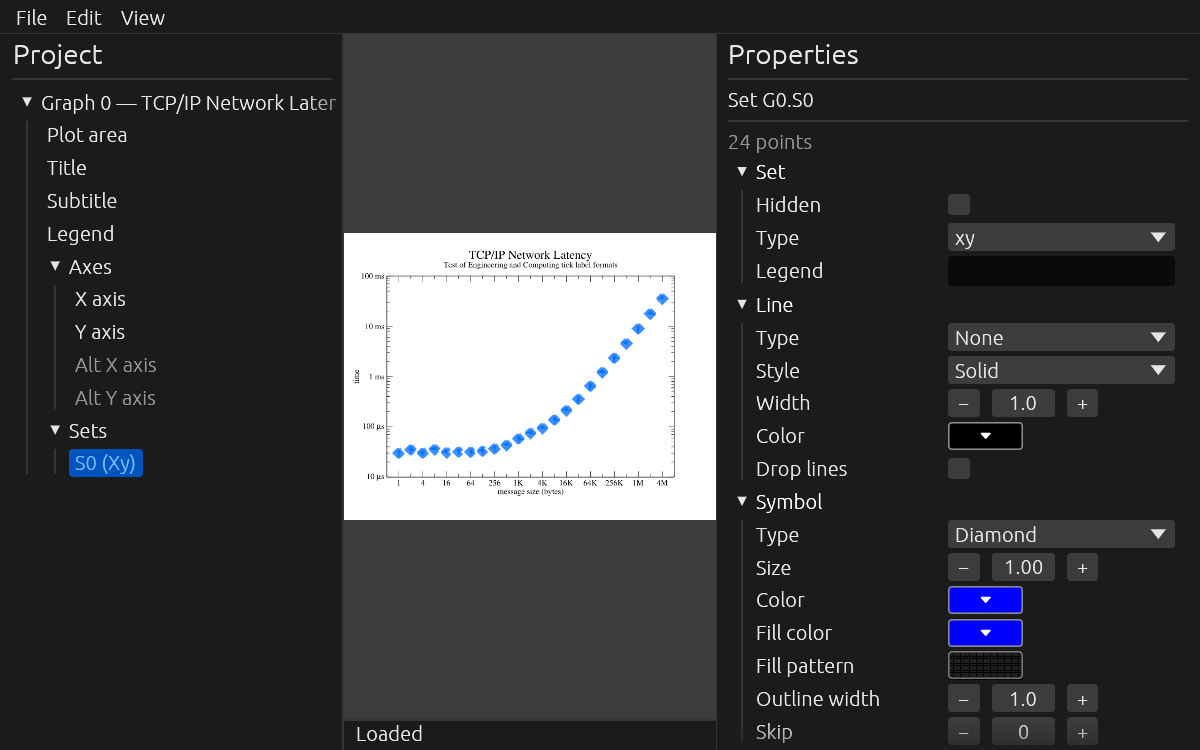
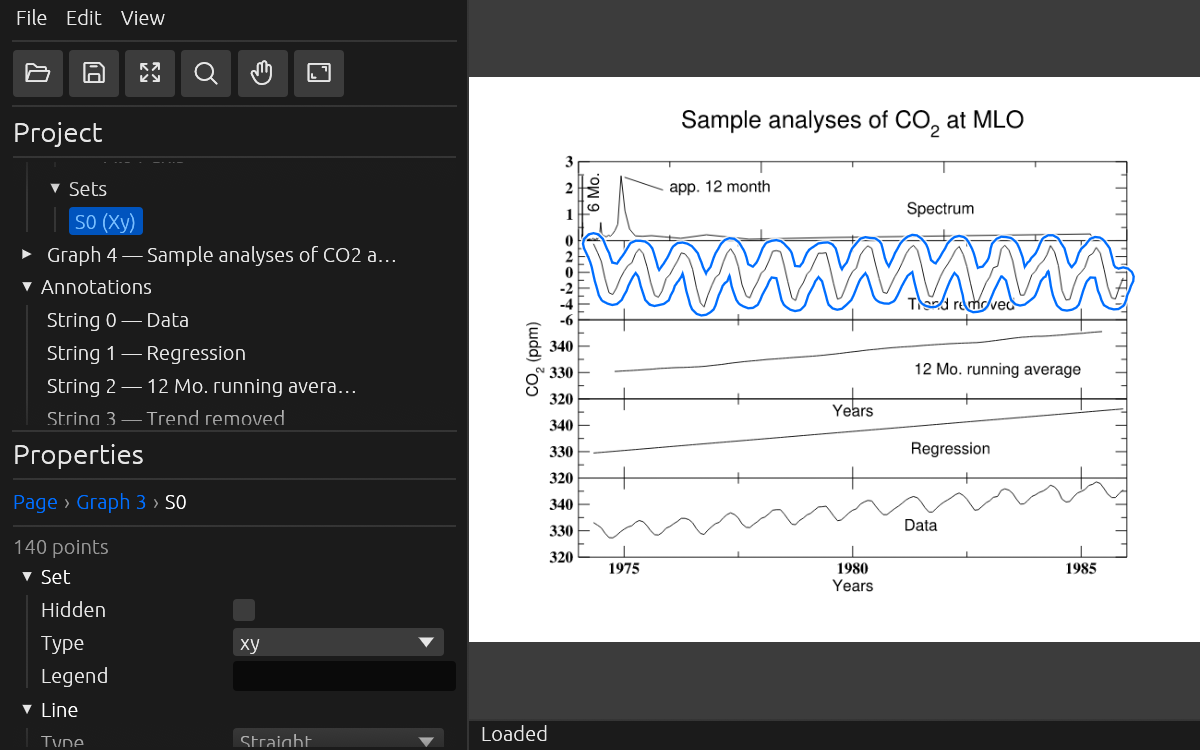
docs: rewrite README — lead with use cases, quick start, LaTeX + .oxgr + current GUI
Opens with who the project is for (headless rendering of .agr/.xvg
anywhere, a modern Grace-compatible editor incl. the browser, LaTeX
labels) and a quick start. Features gain the LaTeX math extension, the
native .oxgr format and per-set opacity; the GUI section describes the
current editor (breadcrumb inspector with element-exact pages,
tree/canvas selection sync, non-masking selection outlines, toolbar
tools, layout toggle with persisted settings). New gallery tile
docs/gallery/latex.png (a fit plot labeled entirely in $...$ math) and a
regenerated gui.png showing the redesigned UI.

diff --git a/README.md b/README.md
@@ -2,27 +2,51 @@
 
 A pure-Rust toolkit for [Grace](https://plasma-gate.weizmann.ac.il/Grace/)
 (xmgrace) plot files: a rendering library, a headless command-line renderer
-and an interactive GUI editor. It reads `.agr` / `.xvg` files and renders
-them to antialiased PNG images or clean vector SVG — no X11, no external C
-libraries.
+and an interactive GUI editor that also runs in the browser. It reads
+`.agr` / `.xvg` files and turns them into antialiased PNG or clean vector
+SVG — no X11, no external C libraries, no Grace installation.
 
-Grace is a venerable 2D plotting tool whose file formats are still produced
-by a lot of scientific software (GROMACS and friends emit `.xvg`). oxygrace
-turns those files into images anywhere — servers, CI pipelines, containers —
-and lets you edit them in a modern GUI, without installing Grace itself.
+Decades of scientific software speak Grace's formats — GROMACS and friends
+still emit `.xvg` today, and countless published figures live in `.agr`
+projects. oxygrace is for three situations:
+
+- **Rendering those files anywhere.** One static binary converts them to
+  images on servers, in CI pipelines and containers, or from your own code —
+  places where installing Grace and an X server is a non-starter.
+- **Continuing to edit them.** The GUI is a modern take on the Grace editor:
+  click any element on the plot to edit it, with undo, direct dragging and a
+  clean property inspector. It saves ordinary `.agr` files that Grace and
+  QtGrace still load, so your archive stays portable.
+- **Writing math the way you think it.** Any label accepts LaTeX math —
+  `$\sigma_0 e^{-E/kT}$` just works — on top of Grace's native typesetting.
 
 The workspace contains three crates:
 
 | Crate | What it is |
 |---|---|
-| [`oxygrace`](oxygrace/) | The core library: parser, data model, PNG/SVG renderer, `.agr` writer |
-| [`oxygrace-cli`](oxygrace-cli/) | Headless renderer (`oxygrace plot.agr -o plot.png`) |
+| [`oxygrace`](oxygrace/) | The core library: parser, data model, PNG/SVG renderer, `.agr`/`.oxgr` writer |
+| [`oxygrace-cli`](oxygrace-cli/) | Headless renderer and converter (`oxygrace plot.agr -o plot.png`) |
 | [`oxygrace-gui`](oxygrace-gui/) | Interactive editor (native and in the browser via WebAssembly) |
+
+## Quick start
+
+With a [Rust toolchain](https://rustup.rs) installed:
+
+```bash
+cargo install --git https://github.com/yesint/oxygrace oxygrace-cli   # the `oxygrace` command
+cargo install --git https://github.com/yesint/oxygrace oxygrace-gui   # the GUI editor
+
+oxygrace results.agr                # → results.png, no display needed
+oxygrace-gui results.agr            # open the editor
+```
+
+Or skip installing entirely — **the editor runs in your browser at
+<https://yesint.github.io/oxygrace/>**.
 
 ## Gallery
 
-All images below were rendered by oxygrace from the standard Grace example
-projects.
+All images below were rendered by oxygrace from standard Grace example
+projects (plus one showing the LaTeX extension).
 
 | | |
 |:---:|:---:|
@@ -32,8 +56,8 @@ projects.
 | *Polar graphs* | *Pie charts with patterns and exploded slices* |
 | ![tlog](docs/gallery/tlog.png) | ![terr](docs/gallery/terr.png) |
 | *Log scales with power-format labels* | *X/Y error bars, clipped risers* |
-| ![typeset](docs/gallery/typeset.png) | ![txttrans](docs/gallery/txttrans.png) |
-| *Typesetting: sub/superscripts, Greek, fractions* | *Text transformations: mirror, slant, per-glyph rotation* |
+| ![typeset](docs/gallery/typeset.png) | ![latex](docs/gallery/latex.png) |
+| *Grace typesetting: sub/superscripts, Greek, fractions* | *The same, written as LaTeX: `$\sigma(E) = \sigma_0 + A e^{-(E-E_0)^2/2w^2}$`* |
 | ![bar](docs/gallery/bar.png) | ![boxplot](docs/gallery/boxplot.png) |
 | *Bar charts with error bars* | *Boxplots* |
 
@@ -54,19 +78,26 @@ projects.
 - **Typesetting** — Grace's full text markup: fonts, colors, sub- and
   superscripts, under/overline, Symbol-font Greek, size changes, and text
   transformations (rotation, mirroring, slanting).
+- **LaTeX math** *(oxygrace extension)* — write `$...$` in any label:
+  Greek and operators (`\alpha`, `\pm`, `\infty`, `\sum`, …), nested
+  super/subscripts, `\sqrt`, `\bar`, `\mathrm`/`\mathbf`, upright function
+  names. Transpiled to Grace markup internally, so it renders in PNG, SVG
+  and the GUI alike; strings without math pass through untouched.
 - **Styling** — Grace's default palette with `@map color` overrides, all 32
-  fill patterns, the nine dash styles, legends, frames and background fills.
+  fill patterns, the nine dash styles, legends, frames, background fills,
+  and per-set opacity (QtGrace's alpha-channel extension, read and written).
 - **Output** — antialiased PNG and vector SVG from the same drawing code;
   in SVG, text is emitted as glyph outlines, so documents display
   identically everywhere with no font dependencies.
-- **Round trip** — projects can be written back to `.agr` (used by the GUI's
-  save), staying loadable by Grace and QtGrace.
+- **File formats** — reads files written by xmgr 4.x, Grace 5.x and QtGrace,
+  including legacy formats (the tolerant parser skips unknown commands
+  instead of failing); writes `.agr` back, loadable by Grace and QtGrace.
+  There is also a native `.oxgr` format — a readable, hand-editable RON
+  document about 30 % smaller than `.agr` and forward-compatible by design;
+  the CLI converts between formats by extension.
 - **Fonts** — ships with the URW base35 fonts (metric-compatible with
   Grace's PostScript set) embedded in the binary; no font installation
   needed.
-- **Compatibility** — reads files written by xmgr 4.x, Grace 5.x and
-  QtGrace, including legacy formats; the tolerant parser skips unknown
-  commands instead of failing.
 - **Scales to huge data** — million-point datasets render interactively
   (pixel-equivalent polyline aggregation and symbol deduplication kick in
   only on pathologically dense sets).
@@ -76,33 +107,16 @@ layout math, same defaults, same fonts — and is validated side by side
 against the original Grace renderer over the full Grace example corpus.
 (Exact pixel parity is a non-goal: oxygrace antialiases everything.)
 
-## Installation
-
-With a [Rust toolchain](https://rustup.rs) installed:
-
-```bash
-cargo install --git https://github.com/yesint/oxygrace oxygrace-cli   # the `oxygrace` command
-cargo install --git https://github.com/yesint/oxygrace oxygrace-gui  # the GUI editor
-```
-
-or clone and build:
-
-```bash
-git clone https://github.com/yesint/oxygrace
-cd oxygrace
-cargo build --release -p oxygrace-cli   # binary in target/release/oxygrace
-cargo build --release -p oxygrace-gui   # binary in target/release/oxygrace-gui
-```
-
 ## The command-line renderer
 
 `oxygrace-cli` installs a binary named `oxygrace` that converts Grace
-projects to images, headlessly:
+projects to images — and between project formats — headlessly:
 
 ```bash
 oxygrace input.agr                  # writes input.png next to the input
 oxygrace input.agr -o out.png       # explicit output path
 oxygrace input.agr -o out.svg       # SVG output (chosen by extension)
+oxygrace input.agr -o out.oxgr      # convert to the native format (and back)
 oxygrace input.agr --width 1584 --height 1224   # override the page size
 ```
 
@@ -110,28 +124,34 @@ oxygrace input.agr --width 1584 --height 1224   # override the page size
 
 ![GUI](docs/gallery/gui.png)
 
-`oxygrace-gui` is an interactive editor for Grace projects with a modern
-layout: a project tree on the left, the plot in the middle, and a
-standardized property inspector docked on the right (no floating dialog
-windows). It is forward-compatible with Grace: it opens existing `.agr` /
-`.xvg` files and saves regular `.agr` files that Grace and QtGrace load.
+`oxygrace-gui` replaces Grace's maze of floating dialogs with one coherent
+window: a project tree, the plot, and a property inspector that always
+shows exactly the element you selected — nothing else. Click a curve, an
+axis label or a legend on the canvas and the same element highlights in
+the tree and opens in the inspector; a breadcrumb
+(`Page › Graph 0 › X axis › Tick labels`) tracks where you are and walks
+back up. It opens existing `.agr` / `.xvg` / `.oxgr` files and saves
+regular `.agr` that Grace and QtGrace load.
 
-- **Direct selection** — click any plot element (curves, symbols, axes,
-  tick labels, legend, titles, annotations) to select and edit it; clicking
-  the same spot again cycles through overlapping elements; hovering
-  identifies elements in the status bar.
-- **Property inspector** — every property in collapsible sections with
-  color/pattern swatch pickers, spin buttons and live preview; the section
-  for the element you clicked opens automatically.
+- **Direct selection** — click any plot element to edit it; clicking the
+  same spot again cycles through overlapping elements; hovering identifies
+  elements in the status bar. Selection outlines are drawn *around* the
+  data, never on it, so you can watch colors and widths change as you edit.
 - **Direct manipulation** — drag the legend, text, lines, boxes and
   ellipses; resize the plot viewport with selection handles; move line
-  endpoints individually; rotate text with a second click.
+  endpoints individually; rotate text with a second click; pan the world
+  window with the hand tool.
+- **Toolbar tools** — open/save, autoscale everything, autoscale to one
+  clicked set, pan, and free page aspect (the page follows the window).
 - **Undo/redo** — every edit and every drag gesture is one undo step
   (Ctrl+Z / Ctrl+Shift+Z).
+- **LaTeX input** — type `$\Gamma_n \to \infty$` into any text field and
+  the plot renders it; the tree shows it as readable Unicode (`Γn→∞`).
+- **Layout & theme** — the inspector docks to the right of the plot or
+  stacks below the tree (Edit → Settings, remembered across sessions);
+  dark, light or follow-the-system theme.
 - **xmgrace-style command line** — `oxygrace-gui project.agr`,
   `-xy data.dat`, `-nxy multi_column.dat`, `-type TYPE`, `-free`.
-- **View options** — dark/light/system theme, free page aspect (the page
-  follows the window).
 
 ```bash
 oxygrace-gui examples/co2.agr
@@ -141,7 +161,9 @@ oxygrace-gui -nxy results.dat            # plot a multi-column data file
 ### In the browser
 
 The same editor compiles to WebAssembly — **try the live demo at
-<https://yesint.github.io/oxygrace/>**.
+<https://yesint.github.io/oxygrace/>**. File → Open uses the browser's file
+picker, Save downloads the `.agr`, and your settings persist in local
+storage.
 
 To run it locally you need [trunk](https://github.com/trunk-rs/trunk):
 
@@ -152,15 +174,14 @@ trunk serve --release      # then open http://127.0.0.1:8080/
 
 `trunk build --release` produces a static bundle in `oxygrace-gui/dist/`
 that can be hosted anywhere; `.github/workflows/web-demo.yml` deploys it to
-GitHub Pages. In the browser, File → Open uses the file picker and Save
-downloads the `.agr` file.
+GitHub Pages.
 
 ## The library
 
 ```rust
-let project = oxygrace::load("plot.agr")?;
-let png = oxygrace::render_png(&project);   // Vec<u8>
-let svg = oxygrace::render_svg(&project);   // String
+let project = oxygrace::load("plot.agr")?;   // or .oxgr — picked by extension
+let png = oxygrace::render_png(&project);    // Vec<u8>
+let svg = oxygrace::render_svg(&project);    // String
 std::fs::write("plot.png", png)?;
 
 // For interactive use: raw pixmap + hit-test geometry, and saving.
@@ -169,6 +190,10 @@ let result = oxygrace::render_pixmap(&project, &fonts);
 let hit = result.info.hit_test(400.0, 300.0, 4.0);  // what's at this pixel?
 oxygrace::save(&project, "edited.agr")?;
 ```
+
+Everything the GUI does goes through this API: the model is plain Rust
+structs you can build or mutate, rendering returns hit-test geometry for
+picking, and the writer round-trips projects byte-stably.
 
 ## Not supported
 
